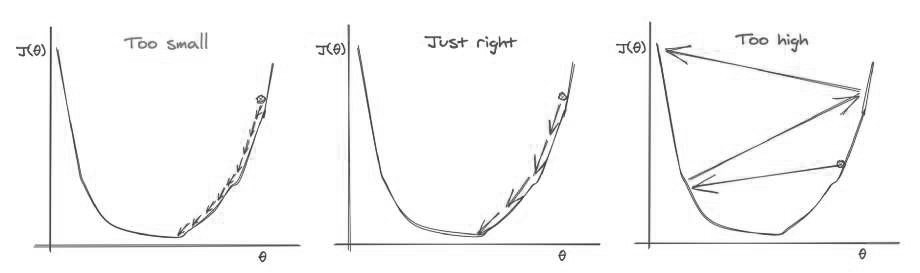
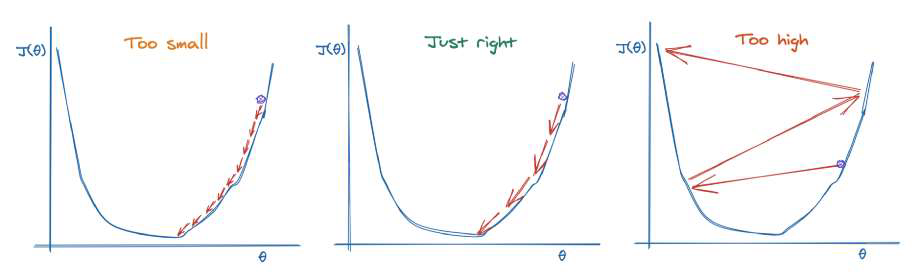
Completed TRC5901_page_v1

diff --git a/TRC5901_Project_page.md b/TRC5901_Project_page.md
@@ -94,14 +94,34 @@ Convolutional layers are responsible for feature extraction in a CNN. In general
 
 Based on the findings in subsection 4.3, all designs presented in Table IV have the same single dense layer at the end for classification. Further details on the sizes of each layer in the models are shown in Figure 6. In designs (a) to (c), the input images were not padded as they were not necessary, but design (d) was an exception. The images in design (d) were padded such that the output shape is the same as the input shape to maintain the correct input size at each additional layer. An additional advantage of this omission of padding is number of trainable parameters are also reduced. 
 
+<b>Summary of tested model designs</b>
+- Design (a): 1 Conv. Layer & 1 Max. pool
+- Design (b): Design (a) + 1 Conv. Layer & 1 Max. pool
+- Design (c): Design (b) + 1 Conv. Layer & 1 Max. pool
+- Design (d): Design (c) + 1 Conv. Layer & 1 Max. pool, with all convolutional layers having their input padded
+
+| Designs  | Train. Loss | Train. Acc. | Val. Loss | Val. Acc. | Test Loss | Test Acc. | No. of Parameters | Epoch Nr. |
+| ------------- | ------------- | ------------- | ------------- | ------------- | ------------- | ------------- | ------------- | ------------- |
+| (a)  | 0.55 | 81.2% | 1.02 | 66.1% | 1.13 | 64.6% | 923,914 | 15 |
+| (b)  | 0.73 | 74.9% | 0.98 | 67.3% | 0.99 | 64.6% | 159,018 | 19 |
+| (c)  | 0.87 | 69.7% | 0.99 | 65.8% | 1.00 | 66.0% |  37,194 | 20 |
+| (d)  | 0.63 | 77.9% | 0.89 | 70.2% | 0.91 | 69.7% | 169,450 | 17 |
+
+For each design, the training and validation loss, along with the respective accuracies readings were plotted to identify any occurences of overfitting. The optimum number of epochs to run the training was informed by the epoch right before signs of overfitting is detected from the validation loss. From the plot below, the model designs, from top left to bottom right, are in the sequence of (a), (b), (c) and (d). 
+
+<img src="images/TRC5901_Project_img5.png?raw=true"/>
+<img src="images/TRC5901_Project_img6.png?raw=true"/>
+
 
 ### 5. Best model
 
-Sed ut perspiciatis unde omnis iste natus error sit voluptatem accusantium doloremque laudantium, totam rem aperiam, eaque ipsa quae ab illo inventore veritatis et quasi architecto beatae vitae dicta sunt explicabo. 
+<img src="images/TRC5901_Project_img7.png?raw=true"/>
 
-```javascript
-if (isAwesome){
-  return true
-}
-```
+If deciding solely on validation accuracy and loss, the clear winner is design (d). It should be paired with pixel normalisation on the input images, a learning rate of 0.001 with a momentum of 0.9 to achieve highest recorded performance of validation loss = 0.89 and accuracy of 0.70%. This aligns with the general trend of a deeper model producing better predictions.
 
+However, building as deep as possible to boost the performance of a CNN is unrealistic. Training time and number of computable parameters should be considered too to strike a balance between resource management and prediction accuracy. 
+
+Speaking of accuracy, J. Brownlee et. al, in their paper "How to Develop a CNN from Scratch for CIFAR-10 Photo Classification" showed that it was possible to reach a prediction accuracy of 88.62% if a plethora of computer vision techniques are applied. In the deep learning world, it is general knowledge that longer training times and fine-tuning hyperparameters would eventually build a better model, but there are other techniques as well. For starters, there's data augmentation to stretch the number of training images. Furthermore, there is also batch normalisation and drop out layers which have been proven to improve generalisation. When designing the optimiser, a loss function can include a penalty term as well, via L1 or L2 regularisation; and if SGD is chosen, a learning rate decay could be helpful to reach the point of stability in a loss function by incrementally shrinking its value with each training epoch. All of these avenues can be explored to aim for better prediction results.      
+
+### 6. Conclusion
+CNNs are best suited for image classification in most cases. However, that assumption can will only be valid when a CNN model is tweaked to fit the objective of prediction and the input dataset. Not all commonly-known data preprocessing methods are used to develop the most accurate model in this study (as its intention was to focus on the relationship between depth of model and prediction performance) but should this model be further refine, that should be the direction to explore. 
